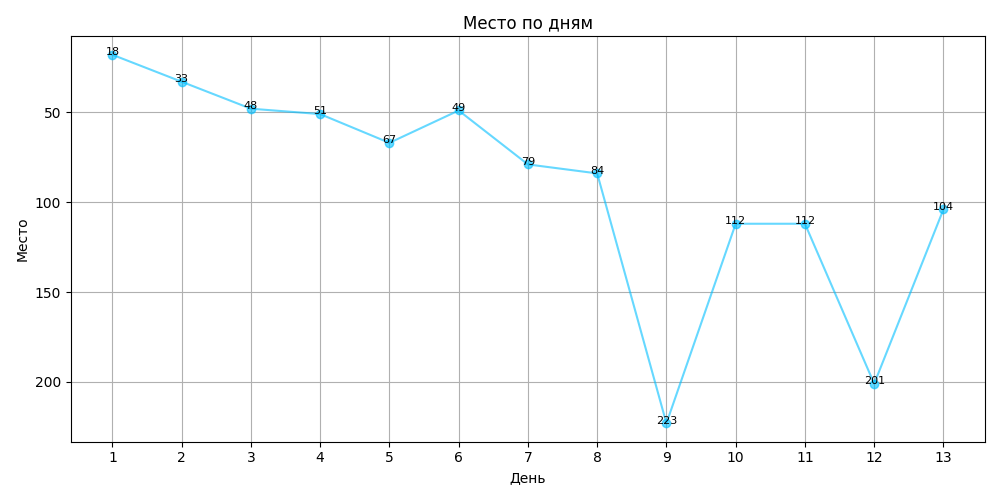
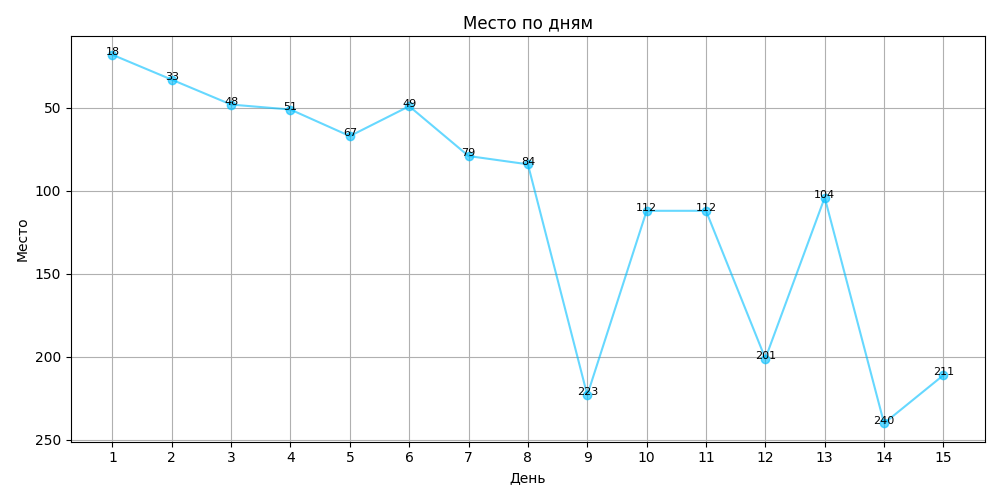
boost challenge day15 --rating 211

diff --git a/BoostChallenge/9July/solve.py b/BoostChallenge/9July/solve.py
@@ -1,0 +1,26 @@
+def solve(ballad: str, n: int) -> int:
+    s = [c for c in ballad if c != ' ']
+    n = len(s)
+    # Для каждой буквы будем хранить количество вхождений до текущей позиции
+    from collections import defaultdict
+
+    # Считаем сколько раз каждая буква встречается справа от текущей позиции
+    total = [0] * 26
+    for c in s:
+        total[ord(c) - ord('a')] += 1
+
+    ans = 0
+    left = [0] * 26  # сколько раз буква встречалась слева
+
+    for mid in range(n):
+        c_mid = ord(s[mid]) - ord('a')
+        total[c_mid] -= 1  # текущая буква теперь не справа
+
+        # Для всех букв a: считаем пары (a, s[mid], a)
+        for a in range(26):
+            ans += left[a] * total[a]
+
+        left[c_mid] += 1  # текущая буква теперь слева
+
+    return ans
+

diff --git a/BoostChallenge/8July/solve.py b/BoostChallenge/8July/solve.py
@@ -1,0 +1,33 @@
+class Answer:
+    __slots__ = ['sum', 'field']
+    def __init__(self, sum, field):
+        self.sum = sum
+        self.field = field
+
+def solution(n):
+    if n == 1:
+        return Answer(0, ['x'])
+    if n == 2:
+        return Answer(4, ['-x', 'x-'])
+
+    field = []
+    total_sum = 0
+    for i in range(n):
+        row = []
+        for j in range(n):
+            if (i + j) % 2 == 1:
+                row.append('-')
+                
+                cnt = 8
+                if i == 0 or i == n-1:
+                    cnt -= 3
+                if j == 0 or j == n-1:
+                    cnt -= 3
+                if (i == 0 or i == n-1) and (j == 0 or j == n-1):
+                    cnt += 1
+                total_sum += cnt
+            else:
+                row.append('x')
+        field.append(''.join(row))
+    return Answer(total_sum, field)
+
